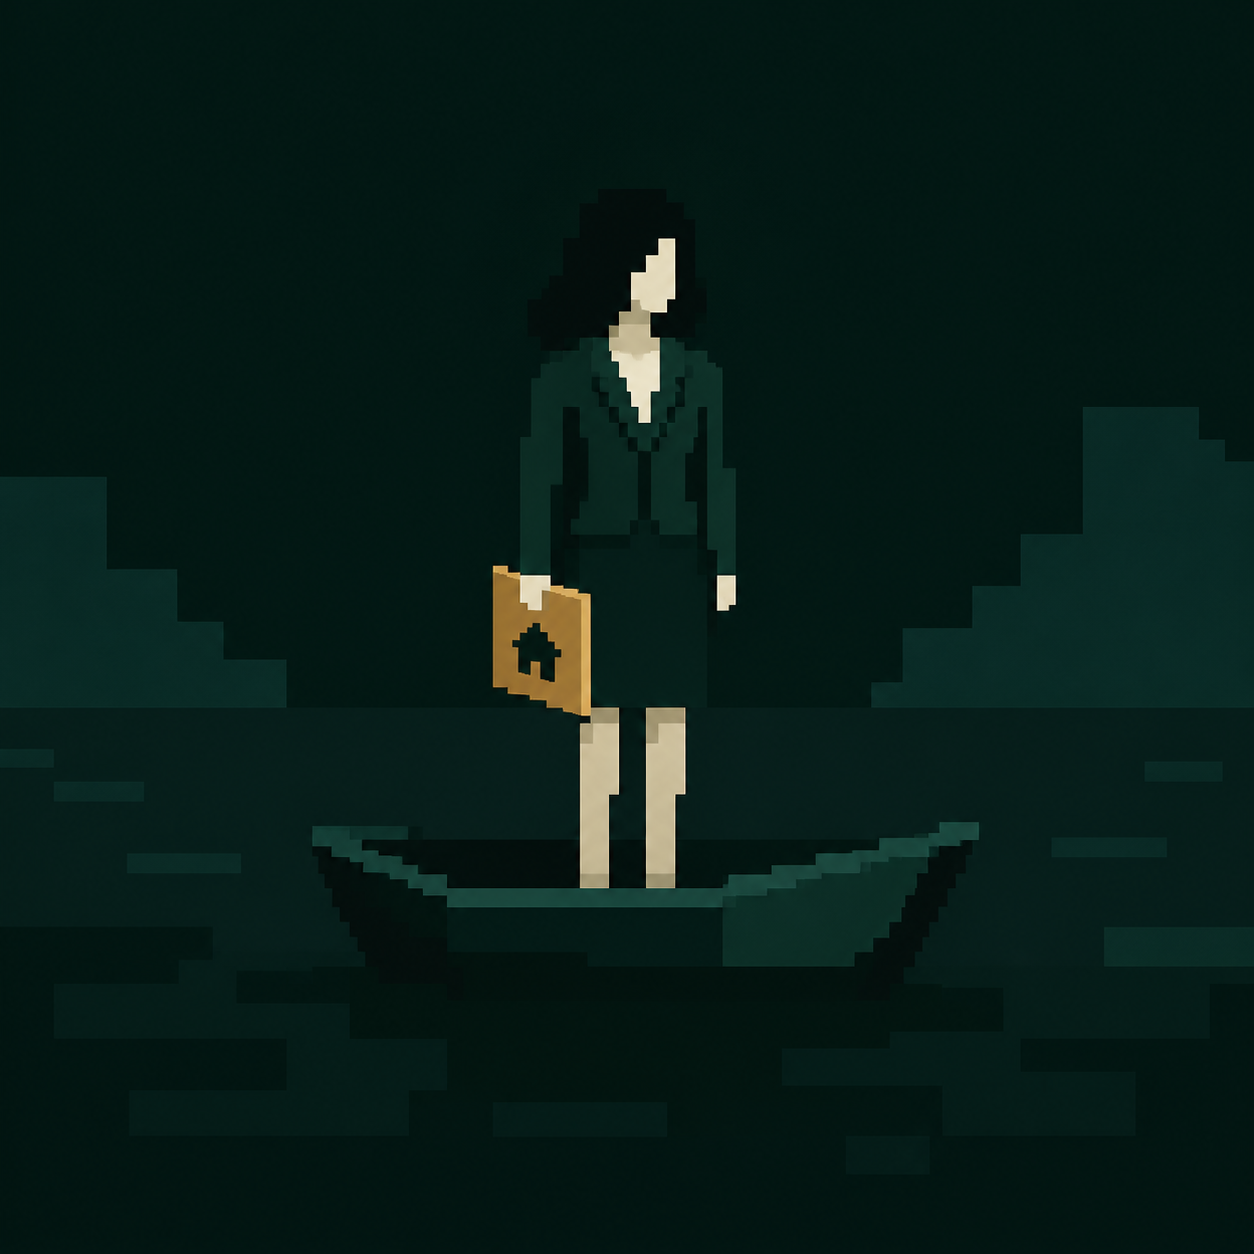
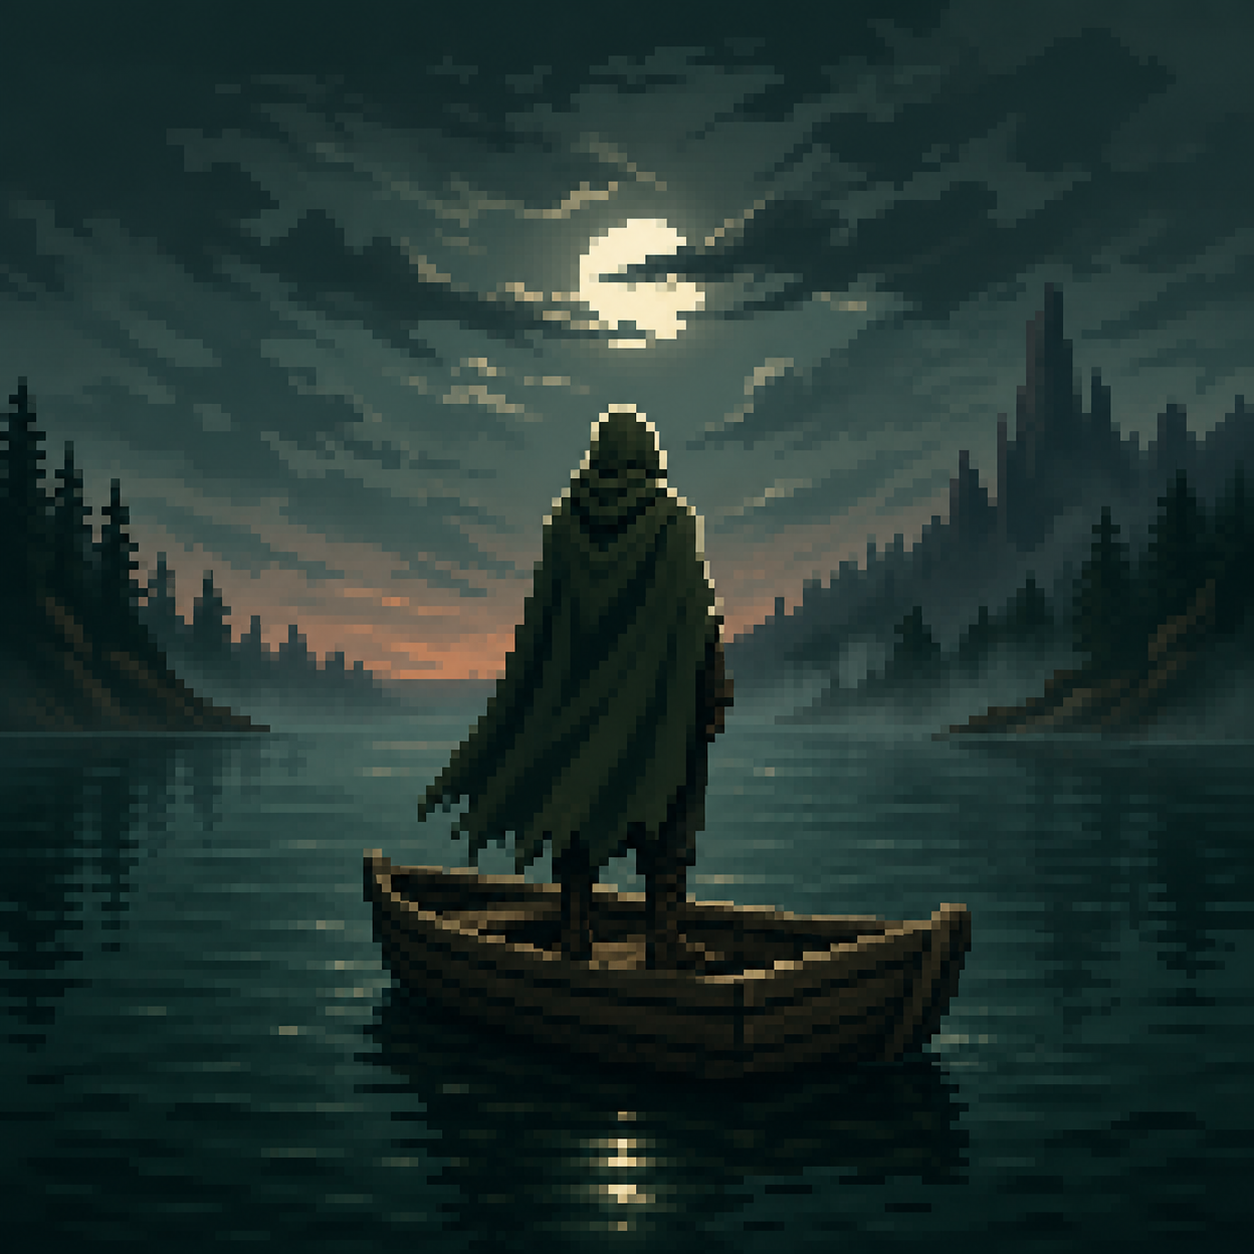
fix: replace legend cover art

diff --git a/agents/029_[Brand]_更正传说船上人物视觉/cover-findings.md b/agents/029_[Brand]_更正传说船上人物视觉/cover-findings.md
@@ -1,0 +1,8 @@
+# 封面更正调查
+
+- 旧封面被误读为现代职业人物，含有西装、公文包与房产联想，不符合“一个人站在船上”的意图。
+- 本分支按用户明确授权从零生成新封面，不把旧封面作为 imagegen 输入，避免继承错误视觉语义。
+- 目标是单人、单船、方块化西幻风格，且无文字、水印、现代物件。
+- 内置 imagegen 从零生成结果：`/Users/user/.codex/generated_images/01a02f8e-8e23-7991-847a-c9ef8ac643eb/exec-c81d0147-8a83-416a-be92-c96a0442174b.png`。
+- `view_image` 检查结论：画面为 1254x1254 方形像素艺术；可见恰好一名披风人物站在一条小木船上；未见西装、公文包、房产符号、额外人物、文字或水印。
[1 lines of base64/hex data omitted]

diff --git a/agents/029_[Brand]_更正传说船上人物视觉/cover-progress.md b/agents/029_[Brand]_更正传说船上人物视觉/cover-progress.md
@@ -1,0 +1,7 @@
+# 封面更正进度
+
+- [x] 读取 agent-mode、imagegen 及其直接引用的提示词规范。
+- [x] 确认当前分支与错误封面资产范围。
+- [x] 使用内置 imagegen 从零生成西幻方块化封面。
+- [x] 检查生成结果并复制到项目资产路径。
+- [x] 运行封面相关测试并提交本分支文件。
